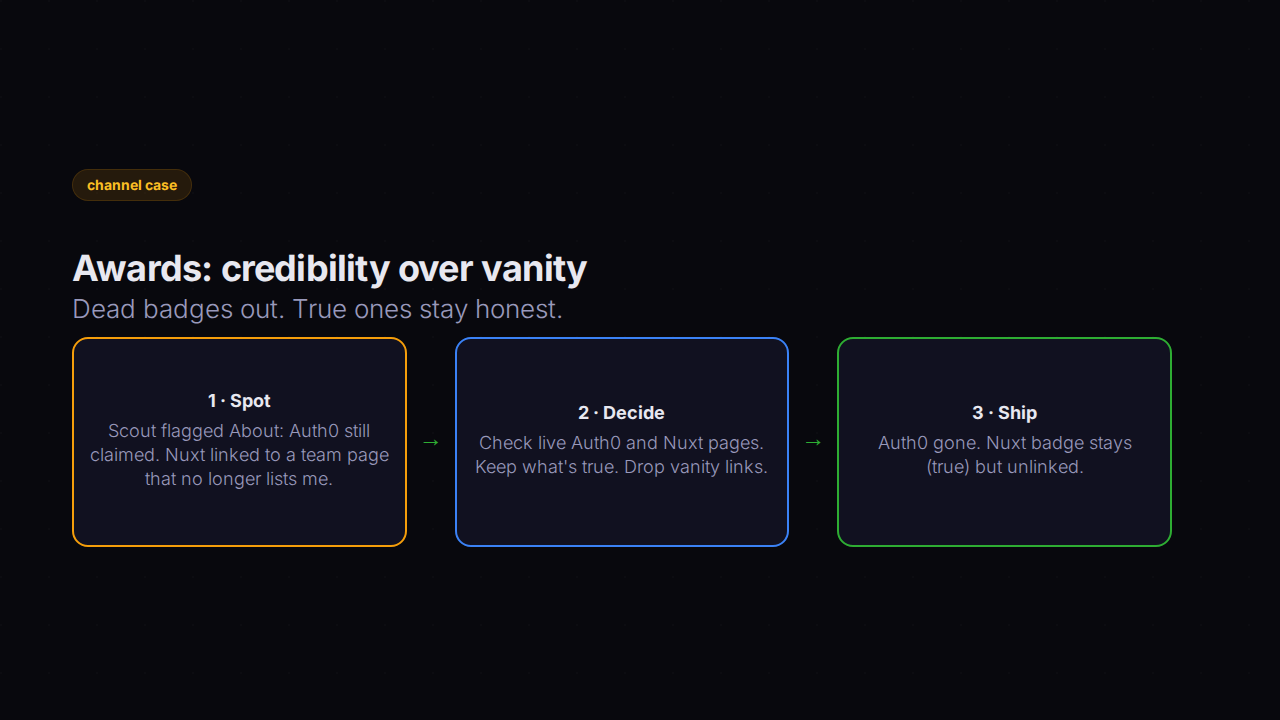
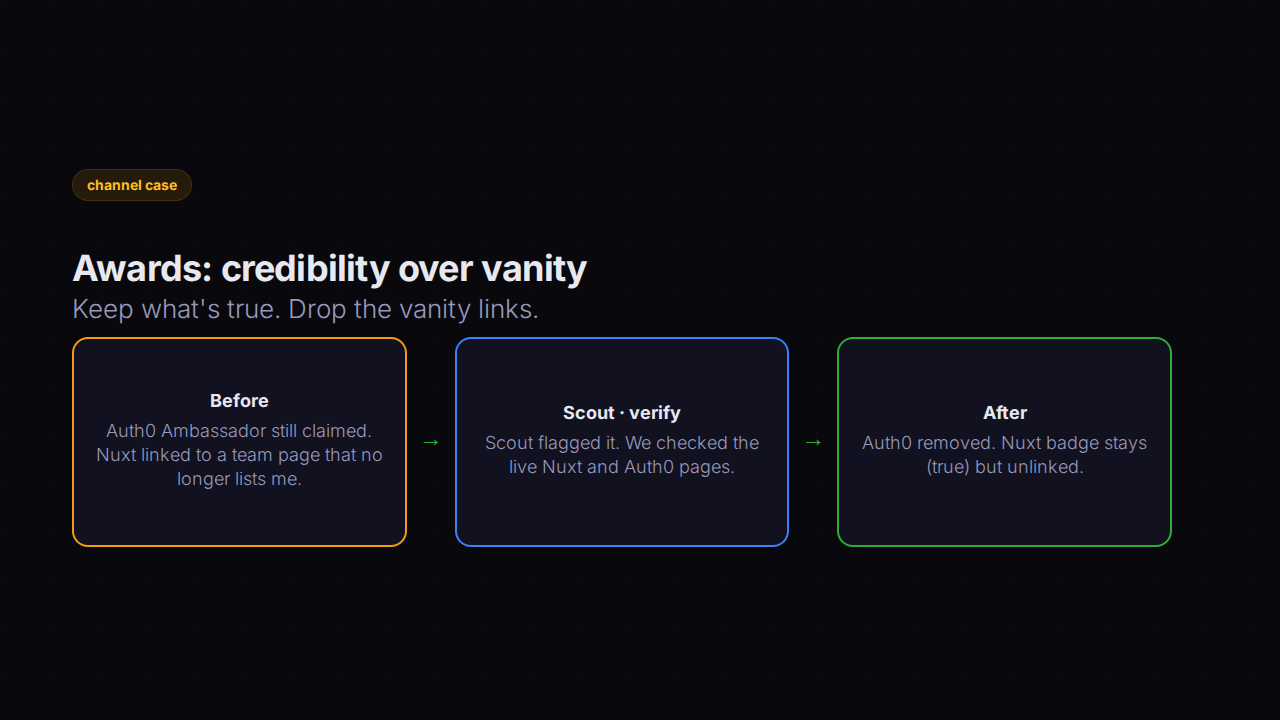
feat: channel before→after cases match engineer brief
Videos, awards, and proof-band use Before / scout / After beats.
Optional /talks → /speaking nod on the LCP slide. Re-verify 1280x720.

diff --git a/infobip-shift-2026-agentic-developer/slides/21-case-proofband.md b/infobip-shift-2026-agentic-developer/slides/21-case-proofband.md
@@ -7,31 +7,32 @@ class: devsum-slide
 
 <span class="badge badge-purple" style="font-size:14px;padding:5px 14px;margin-bottom:8px">channel case</span>
 
-<h2 style="font-size:36px;margin-bottom:4px">Home proof-band + smarter CI</h2>
-<p class="lede" style="margin-bottom:10px">Same story. Cheaper paint. Checks that earn their keep.</p>
+<h2 style="font-size:36px;margin-bottom:4px">Home proof-band: cheaper paint</h2>
+<p class="lede" style="margin-bottom:10px">Same story. Faster LCP.</p>
 
 <div class="diagram-chain" style="margin:0;gap:10px;align-items:stretch">
   <div class="diagram-node orange" style="min-height:210px;padding:16px 14px;flex:1">
-    <div class="label" style="font-size:18px;margin-bottom:8px">1 · Spot</div>
-    <div class="sub" style="font-size:18px;line-height:1.35;margin:0">Lighthouse + QA: card strip still pulls huge <span class="mono">hqdefault</span> thumbs. CI runs too much for tiny edits.</div>
+    <div class="label" style="font-size:18px;margin-bottom:8px">Before</div>
+    <div class="sub" style="font-size:18px;line-height:1.35;margin:0">Card-sized UI still pulled huge YouTube <span class="mono">hqdefault</span> thumbs.</div>
   </div>
   <div class="diagram-arrow" style="font-size:24px">→</div>
   <div class="diagram-node blue" style="min-height:210px;padding:16px 14px;flex:1">
-    <div class="label" style="font-size:18px;margin-bottom:8px">2 · Decide</div>
-    <div class="sub" style="font-size:18px;line-height:1.35;margin:0">Design keeps the layout. Engineer sizes assets only. Selective CI, phase by phase.</div>
+    <div class="label" style="font-size:18px;margin-bottom:8px">Lighthouse · design</div>
+    <div class="sub" style="font-size:18px;line-height:1.35;margin:0">Keep the layout. Engineer only sizes the assets.</div>
   </div>
   <div class="diagram-arrow" style="font-size:24px">→</div>
   <div class="diagram-node green" style="min-height:210px;padding:16px 14px;flex:1">
-    <div class="label" style="font-size:18px;margin-bottom:8px">3 · Ship</div>
-    <div class="sub" style="font-size:18px;line-height:1.35;margin:0"><span class="mono">mqdefault</span> + srcset. Faster LCP. Smarter checks.</div>
+    <div class="label" style="font-size:18px;margin-bottom:8px">After</div>
+    <div class="sub" style="font-size:18px;line-height:1.35;margin:0"><span class="mono">mqdefault</span> + srcset on the strip. Same story. Cheaper paint.</div>
   </div>
 </div>
+
+<p class="footer-note" style="margin-top:14px">Also: <span class="mono">/talks</span> → <span class="mono">/speaking</span> + sitemap.</p>
 
 </div>
 
 <!--
-PRESENTER NOTES: CASE PROOFBAND + CI
-- Issues #617 to #620 in notes only.
-- Optional tiny nod if asked: /talks → /speaking + sitemap.
-- Skip typo patrols on stage.
+PRESENTER NOTES: CASE PROOFBAND
+- Issues #617+ in notes only. Selective CI if someone asks.
+- Skip typo patrols (Servers/Sweden). Not talk demos.
 -->

diff --git a/infobip-shift-2026-agentic-developer/slides/21-case-videos.md b/infobip-shift-2026-agentic-developer/slides/21-case-videos.md
@@ -8,22 +8,22 @@ class: devsum-slide
 <span class="badge badge-blue" style="font-size:14px;padding:5px 14px;margin-bottom:8px">channel case</span>
 
 <h2 style="font-size:36px;margin-bottom:4px">Videos: find the talk</h2>
-<p class="lede" style="margin-bottom:10px">Flat dump → Featured → chips → Latest</p>
+<p class="lede" style="margin-bottom:10px">Browsing finally makes sense.</p>
 
 <div class="diagram-chain" style="margin:0;gap:10px;align-items:stretch">
   <div class="diagram-node orange" style="min-height:210px;padding:16px 14px;flex:1">
-    <div class="label" style="font-size:18px;margin-bottom:8px">1 · Spot</div>
-    <div class="sub" style="font-size:18px;line-height:1.35;margin:0">Scout on live /videos. Long list. Playwright vs agents vs Grok? Hard to find.</div>
+    <div class="label" style="font-size:18px;margin-bottom:8px">Before</div>
+    <div class="sub" style="font-size:18px;line-height:1.35;margin:0">Flat /videos dump. Playwright vs agents vs Grok? Hard to find.</div>
   </div>
   <div class="diagram-arrow" style="font-size:24px">→</div>
   <div class="diagram-node blue" style="min-height:210px;padding:16px 14px;flex:1">
-    <div class="label" style="font-size:18px;margin-bottom:8px">2 · Decide</div>
-    <div class="sub" style="font-size:18px;line-height:1.35;margin:0">Design locks path: Featured strip, then chips (All · Playwright · MCP · Agents · Nuxt · Grok Bot), then Latest.</div>
+    <div class="label" style="font-size:18px;margin-bottom:8px">Scout · design</div>
+    <div class="sub" style="font-size:17px;line-height:1.35;margin:0">Featured → chips (All · Playwright · MCP · Agents · Nuxt · Grok Bot) → Latest</div>
   </div>
   <div class="diagram-arrow" style="font-size:24px">→</div>
   <div class="diagram-node green" style="min-height:210px;padding:16px 14px;flex:1">
-    <div class="label" style="font-size:18px;margin-bottom:8px">3 · Ship</div>
-    <div class="sub" style="font-size:18px;line-height:1.35;margin:0">One-tap filters. Talks like Playwright MCP Servers Explained are findable.</div>
+    <div class="label" style="font-size:18px;margin-bottom:8px">After</div>
+    <div class="sub" style="font-size:18px;line-height:1.35;margin:0">Featured strip + one-tap filters. Playwright MCP Servers Explained is findable.</div>
   </div>
 </div>
 
@@ -31,6 +31,6 @@ class: devsum-slide
 
 <!--
 PRESENTER NOTES: CASE VIDEOS
-- Issue #615 in notes only. Don't dump numbers on stage or thanks.
+- Issue #615 in notes only.
 - Punch: browsing finally makes sense.
 -->

diff --git a/infobip-shift-2026-agentic-developer/slides/21-case-awards.md b/infobip-shift-2026-agentic-developer/slides/21-case-awards.md
@@ -8,22 +8,22 @@ class: devsum-slide
 <span class="badge badge-orange" style="font-size:14px;padding:5px 14px;margin-bottom:8px">channel case</span>
 
 <h2 style="font-size:36px;margin-bottom:4px">Awards: credibility over vanity</h2>
-<p class="lede" style="margin-bottom:10px">Dead badges out. True ones stay honest.</p>
+<p class="lede" style="margin-bottom:10px">Keep what's true. Drop the vanity links.</p>
 
 <div class="diagram-chain" style="margin:0;gap:10px;align-items:stretch">
   <div class="diagram-node orange" style="min-height:210px;padding:16px 14px;flex:1">
-    <div class="label" style="font-size:18px;margin-bottom:8px">1 · Spot</div>
-    <div class="sub" style="font-size:18px;line-height:1.35;margin:0">Scout flagged About: Auth0 still claimed. Nuxt linked to a team page that no longer lists me.</div>
+    <div class="label" style="font-size:18px;margin-bottom:8px">Before</div>
+    <div class="sub" style="font-size:18px;line-height:1.35;margin:0">Auth0 Ambassador still claimed. Nuxt linked to a team page that no longer lists me.</div>
   </div>
   <div class="diagram-arrow" style="font-size:24px">→</div>
   <div class="diagram-node blue" style="min-height:210px;padding:16px 14px;flex:1">
-    <div class="label" style="font-size:18px;margin-bottom:8px">2 · Decide</div>
-    <div class="sub" style="font-size:18px;line-height:1.35;margin:0">Check live Auth0 and Nuxt pages. Keep what's true. Drop vanity links.</div>
+    <div class="label" style="font-size:18px;margin-bottom:8px">Scout · verify</div>
+    <div class="sub" style="font-size:18px;line-height:1.35;margin:0">Scout flagged it. We checked the live Nuxt and Auth0 pages.</div>
   </div>
   <div class="diagram-arrow" style="font-size:24px">→</div>
   <div class="diagram-node green" style="min-height:210px;padding:16px 14px;flex:1">
-    <div class="label" style="font-size:18px;margin-bottom:8px">3 · Ship</div>
-    <div class="sub" style="font-size:18px;line-height:1.35;margin:0">Auth0 gone. Nuxt badge stays (true) but unlinked.</div>
+    <div class="label" style="font-size:18px;margin-bottom:8px">After</div>
+    <div class="sub" style="font-size:18px;line-height:1.35;margin:0">Auth0 removed. Nuxt badge stays (true) but unlinked.</div>
   </div>
 </div>
 
